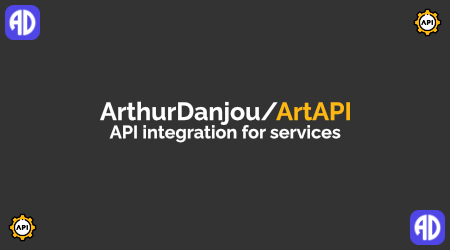
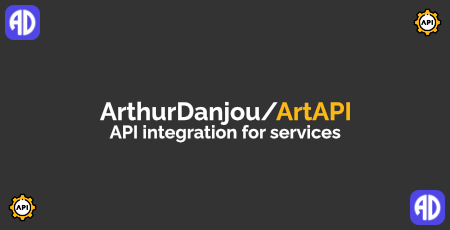
Rework projects illustration

diff --git a/src/components/Project.vue b/src/components/Project.vue
@@ -1,7 +1,7 @@
 <template>
   <a :href="url" target="_blank" rel="noopener noreferrer">
     <div class="rounded-lg shadow-xl h-92 w-full lg:w-84 text-left bg-gray-100 dark:bg-gray-800 transform hover:scale-103 duration-300 mb-8 lg:mb-0">
-      <div class="h-1/2 post flex justify-center">
+      <div class="h-1/2 w-full post flex justify-center">
         <img :src="getCover" alt="Project Image" class="h-full rounded-t-lg"/>
       </div>
       <div class="h-1/2 p-4 flex flex-col justify-between">
